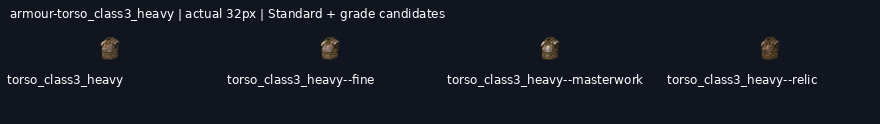
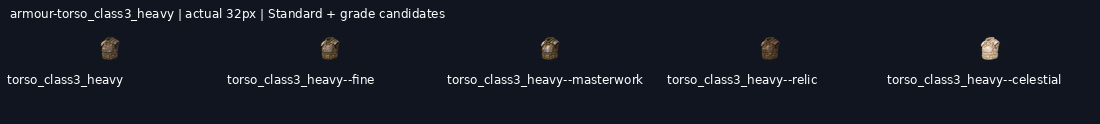
art: draw armour-torso_class3_heavy--celestial grade candidate

diff --git a/art/_archive/gear/2026-11-19-kept-blade-grades/HANDOFF.md b/art/_archive/gear/2026-11-19-kept-blade-grades/HANDOFF.md
@@ -1,9 +1,9 @@
 # Kept-blade grade candidates
 
-**72/120 grade candidates delivered** on `art/2026-11-19-kept-blade-grades`. Shared mailbox: https://github.com/leonpentastorm/Project-Heaven-Cry/issues/3 . See claim.json for this lane’s current Standards. Released overlapping blades reuse12 peer candidates, with3 local alternatives archived.
+**73/120 grade candidates delivered** on `art/2026-11-19-kept-blade-grades`. Shared mailbox: https://github.com/leonpentastorm/Project-Heaven-Cry/issues/3 . See claim.json for this lane’s current Standards. Released overlapping blades reuse12 peer candidates, with3 local alternatives archived.
 
 Leon requested continuous candidate production; proof approval is not fabricated. All candidates remain review-candidate, production_approved:false, implementation_ready:false, with outline.review_required:true. Exact outline is measured, never asserted unless the masks match. Per-image registration is uniform scaling/translation only, without warp, silhouette masks, filled pixels or code-drawn substitutes. The generated native remains untouched.
 
 Each image is generated, shown, technically exported, validated, committed and pushed before the next. Sources, versioned masters, exact prompts/reference hashes,256/128/64/32 exports and grade comparison sheets are retained. Standards and earlier deliveries are unchanged. This sparse checkout cannot validate omitted historical files; full-library validation/build is an integration check on a full checkout.
 
-Remaining: weapon-ork_machete--masterwork, weapon-ork_machete--relic, weapon-ork_machete--celestial, weapon-war_axe--fine, weapon-war_axe--masterwork, weapon-war_axe--relic, weapon-war_axe--celestial, armour-torso_class3_heavy--celestial, armour-torso_class4_assault--fine, armour-torso_class4_assault--masterwork, armour-torso_class4_assault--relic, armour-torso_class4_assault--celestial, armour-torso_class5_juggernaut--fine, armour-torso_class5_juggernaut--masterwork, armour-torso_class5_juggernaut--relic, armour-torso_class5_juggernaut--celestial, armour-padded_undershirt--fine, armour-padded_undershirt--masterwork, armour-padded_undershirt--relic, armour-padded_undershirt--celestial, armour-trauma_plate--fine, armour-trauma_plate--masterwork, armour-trauma_plate--relic, armour-trauma_plate--celestial, armour-runner_trousers--fine, armour-runner_trousers--masterwork, armour-runner_trousers--relic, armour-runner_trousers--celestial, armour-armoured_greaves--fine, armour-armoured_greaves--masterwork, armour-armoured_greaves--relic, armour-armoured_greaves--celestial, armour-work_gloves--fine, armour-work_gloves--masterwork, armour-work_gloves--relic, armour-work_gloves--celestial, armour-combat_gloves--fine, armour-combat_gloves--masterwork, armour-combat_gloves--relic, armour-combat_gloves--celestial, armour-field_boots--fine, armour-field_boots--masterwork, armour-field_boots--relic, armour-field_boots--celestial, armour-heavy_boots--fine, armour-heavy_boots--masterwork, armour-heavy_boots--relic, armour-heavy_boots--celestial.
+Remaining: weapon-ork_machete--masterwork, weapon-ork_machete--relic, weapon-ork_machete--celestial, weapon-war_axe--fine, weapon-war_axe--masterwork, weapon-war_axe--relic, weapon-war_axe--celestial, armour-torso_class4_assault--fine, armour-torso_class4_assault--masterwork, armour-torso_class4_assault--relic, armour-torso_class4_assault--celestial, armour-torso_class5_juggernaut--fine, armour-torso_class5_juggernaut--masterwork, armour-torso_class5_juggernaut--relic, armour-torso_class5_juggernaut--celestial, armour-padded_undershirt--fine, armour-padded_undershirt--masterwork, armour-padded_undershirt--relic, armour-padded_undershirt--celestial, armour-trauma_plate--fine, armour-trauma_plate--masterwork, armour-trauma_plate--relic, armour-trauma_plate--celestial, armour-runner_trousers--fine, armour-runner_trousers--masterwork, armour-runner_trousers--relic, armour-runner_trousers--celestial, armour-armoured_greaves--fine, armour-armoured_greaves--masterwork, armour-armoured_greaves--relic, armour-armoured_greaves--celestial, armour-work_gloves--fine, armour-work_gloves--masterwork, armour-work_gloves--relic, armour-work_gloves--celestial, armour-combat_gloves--fine, armour-combat_gloves--masterwork, armour-combat_gloves--relic, armour-combat_gloves--celestial, armour-field_boots--fine, armour-field_boots--masterwork, armour-field_boots--relic, armour-field_boots--celestial, armour-heavy_boots--fine, armour-heavy_boots--masterwork, armour-heavy_boots--relic, armour-heavy_boots--celestial.
